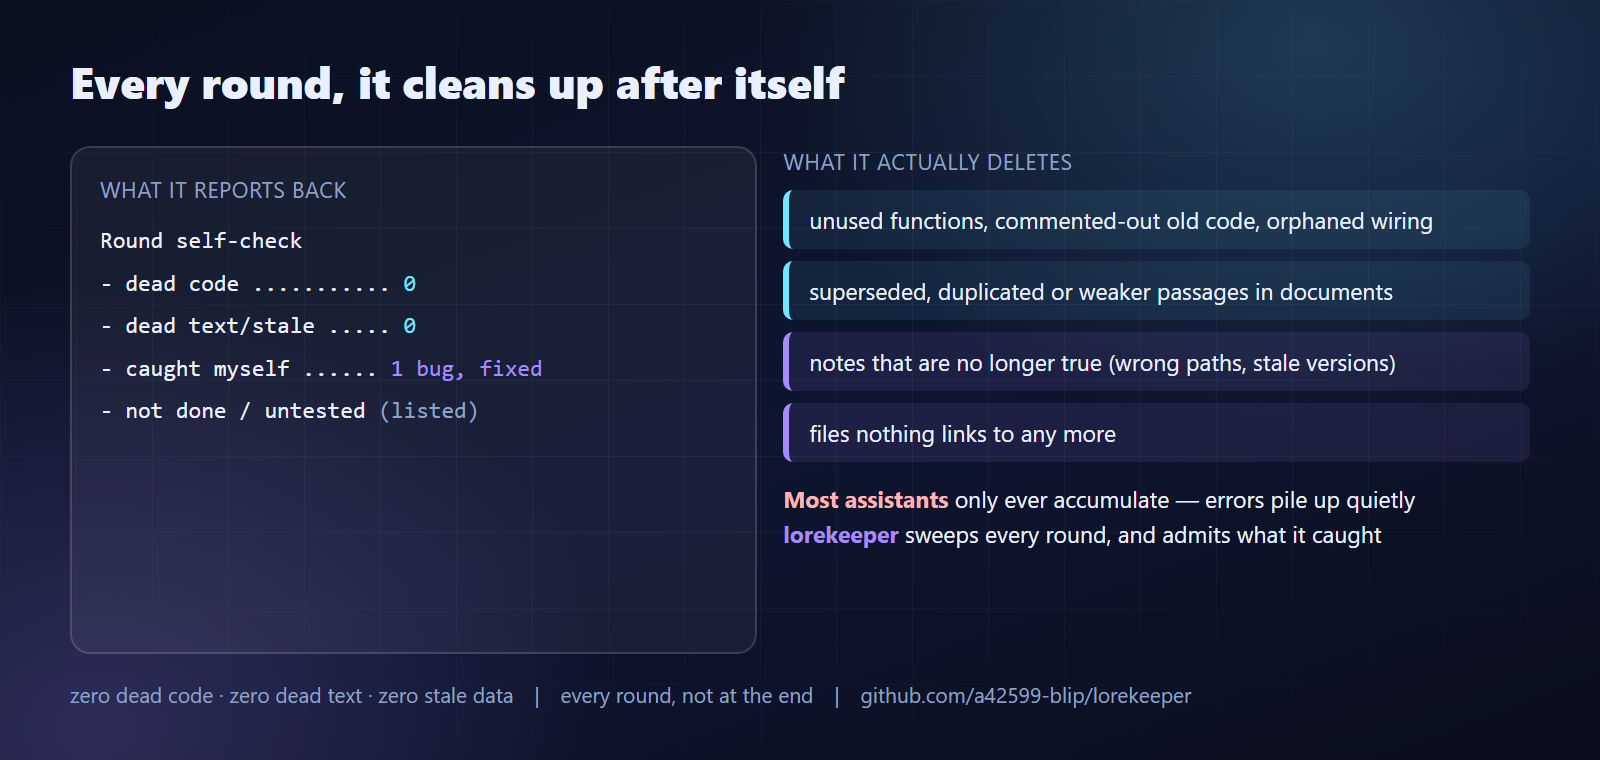
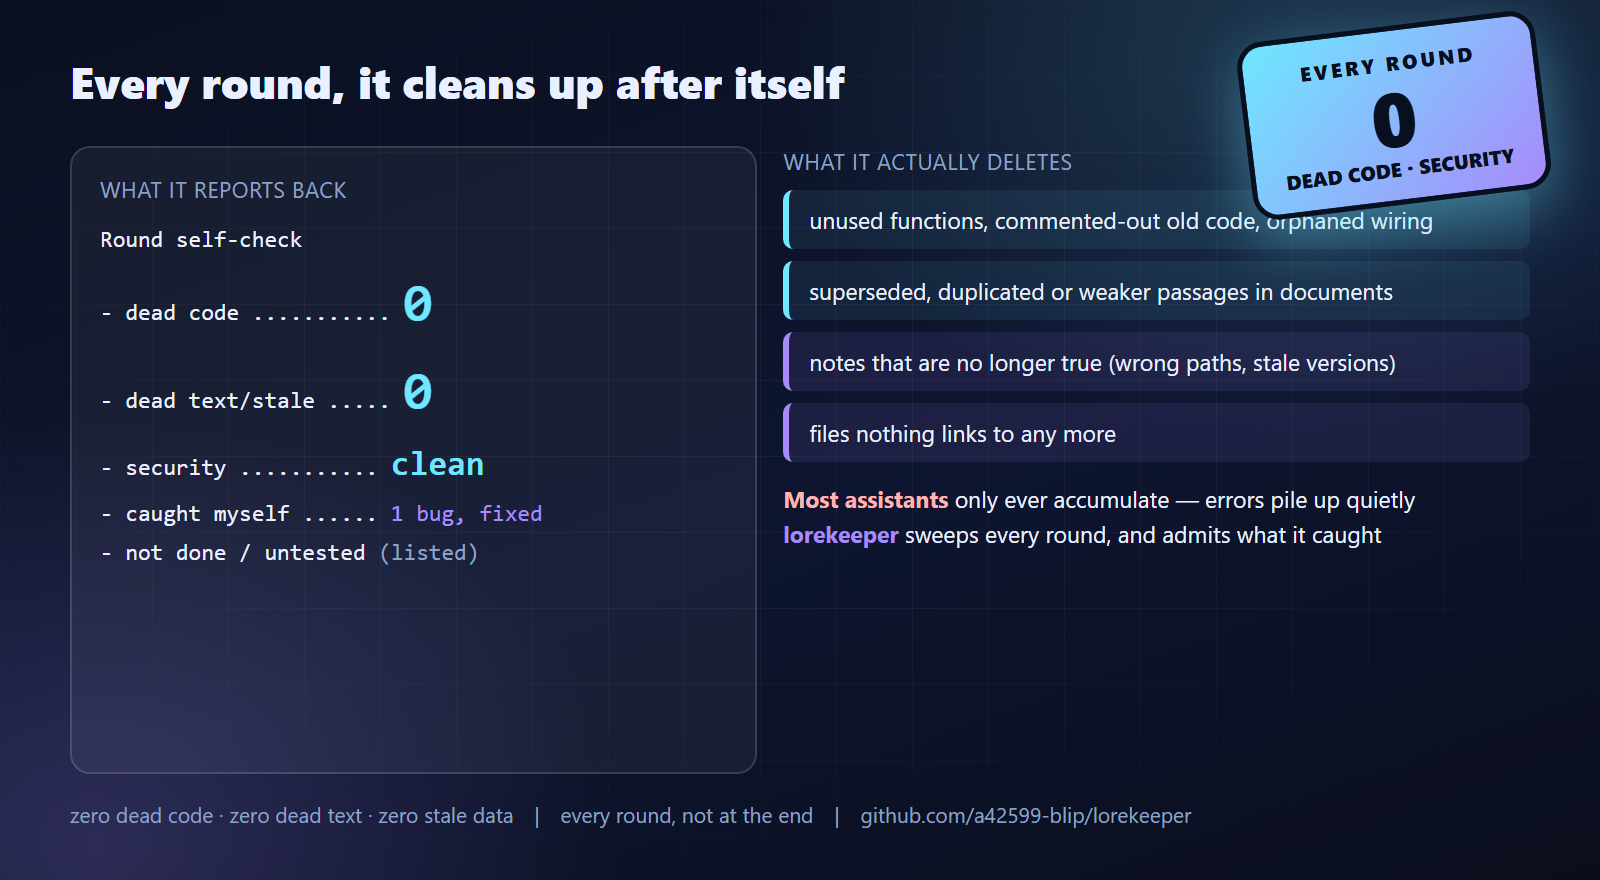
0.9.0: security joined the round self-check + shop-window sticker on all diagrams

diff --git a/locales/zh-TW/SKILL.zh-TW.md b/locales/zh-TW/SKILL.zh-TW.md
@@ -56,16 +56,20 @@ license: 保留所有權利 — 見 LICENSE（All rights reserved）
 1. **掃廢碼**：專案有檢查工具就跑工具，沒有就人工掃 → **一定清到 0 項**，不准拖到專案最後。
 2. **掃廢文字與過期資料**：文件裡被取代／重複的段落；你自己筆記裡已經不對的內容
    （錯誤路徑、舊的工具版本、已經不適用的教訓）；沒人引用的檔案。**不再正確、不再使用的，就刪掉。**
-3. **講你找到並刪掉了什麼**——就算答案是「沒有」，也要講。
-4. **主動回報你這一輪自己抓到了什麼**：驗證時發現的 bug、想錯的假設、找到更好的做法——**修好，然後說出來**。
-5. **列出還沒完成的**：沒測的、沒做完的、用假設帶過的。
+3. **每一輪都要跑安全檢查（安全隱患掃描）**：機密或金鑰有沒有被寫進程式、文件、提交、記錄、截圖或生成的媒體；
+   私人資料有沒有留在任何會離開這台電腦的東西裡；有沒有沒經過主人同意就安裝的東西、
+   有沒有他不知道的新檔案、下載或套件。**唯一可接受的結果就是乾淨。**
+4. **講你找到並刪掉了什麼**——就算答案是「沒有」，也要講。
+5. **主動回報你這一輪自己抓到了什麼**：驗證時發現的 bug、想錯的假設、找到更好的做法——**修好，然後說出來**。
+6. **列出還沒完成的**：沒測的、沒做完的、用假設帶過的。
 
 每一輪都用這一個小區塊回報：
 
 ```
 本輪自檢
-- 廢碼 .............. 0   （或：刪掉了〈什麼、在哪〉）
-- 廢文字／過期資料 .... 0   （或：刪掉了〈什麼、在哪〉）
+- 廢碼 .............. 0
+- 廢文字／過期資料 .... 0
+- 安全隱患 .......... 乾淨（無外洩金鑰 · 無私人資料外流 · 無未經同意的安裝）
 - 我自己抓到 ......... 〈bug／錯的假設／更好的做法〉——已修，怎麼驗證的
 - 還沒做／沒測 ....... 〈列出〉
 ```

diff --git a/SKILL.md b/SKILL.md
@@ -56,17 +56,22 @@ End **every** round of work the same way; make it a reflex, not a favour.
 2. **Sweep for dead text and stale data.** Superseded or duplicated passages in documents; obsolete
    entries in your own notes (wrong paths, stale tool versions, a lesson that no longer applies);
    files that nothing links to any more. Delete what is no longer true or no longer used.
-3. **Say what you found and removed — even when the answer is “nothing”.**
-4. **Report anything you caught yourself this round**: a bug you noticed while verifying, an assumption
+3. **Run the security sweep, every round.** Secrets or tokens written into code, documents, commits,
+   logs, screenshots or generated media; private data left in anything that leaves the machine;
+   anything installed without the owner's approval; any new file, download or dependency the owner
+   was not told about. A clean result is the only acceptable result.
+4. **Say what you found and removed — even when the answer is “nothing”.**
+5. **Report anything you caught yourself this round**: a bug you noticed while verifying, an assumption
    that turned out wrong, a better method you found. Fix it, then say so.
-5. **List what is still open**: untested, unfinished, assumed.
+6. **List what is still open**: untested, unfinished, assumed.
 
 Report it in one short block, every round:
 
 ```
 Round self-check
-- dead code .................... 0   (or: removed <what, where>)
-- dead text / stale data ....... 0   (or: removed <what, where>)
+- dead code .................... 0
+- dead text / stale data ....... 0
+- security ..................... clean   (no secrets · no private data leaving · nothing installed unapproved)
 - caught myself ................ <bug / wrong assumption / better method> — fixed, verified how
 - not done / untested .......... <list>
 ```

diff --git a/CHANGELOG.md b/CHANGELOG.md
@@ -3,6 +3,24 @@
 All notable changes to this project are recorded here.
 Format: date — change. Versions are loose (this is a document-driven skill).
 
+## [0.9.0] — 2026-09-30
+
+**The strength is now impossible to miss — a shop-window sticker, and security joins the per-round check.**
+
+- **Security added to the round self-check** (SKILL.md both languages, README both languages):
+  every round also sweeps for **leaked secrets or tokens** (in code, documents, commits, logs,
+  screenshots, generated media), **private data leaving the machine**, and **anything installed
+  without the owner's approval**. Report line: `security ...... clean`.
+  A clean result is the only acceptable result.
+- **A big sticker on the diagrams** — the make-or-break claim is no longer small grey text.
+  All ten diagrams (five Chinese, five English) now carry a rotated, glowing badge reading
+  **每輪質檢 / 0 / 廢碼 · 安全隱患** (English: **EVERY ROUND / 0 / DEAD CODE · SECURITY**).
+  On the banner it sits in its own column; on the other diagrams it sits top-right.
+- **The report block is no longer faint either**: the two `0`s in the self-check diagram are rendered
+  at display size, with `security  clean` beside them.
+- **The Chinese diagrams are now Chinese-only**, headlines included — the English headlines that were
+  still sitting on top of the Chinese versions are gone, so each language version is pure.
+
 ## [0.8.0] — 2026-09-30
 
 **The Chinese documentation is now a complete translation, not a summary — and the two languages never mix.**
